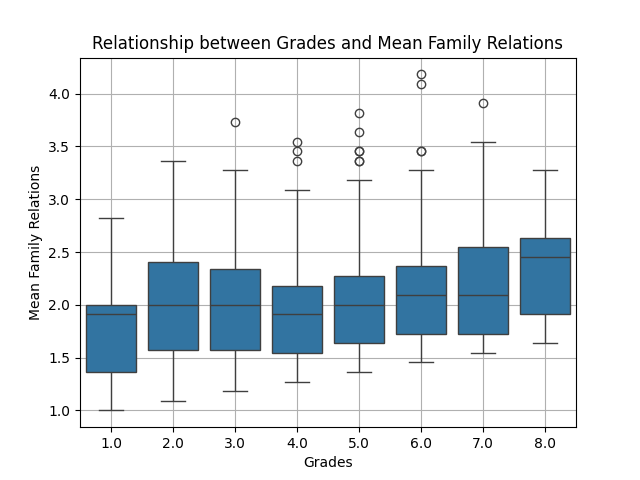
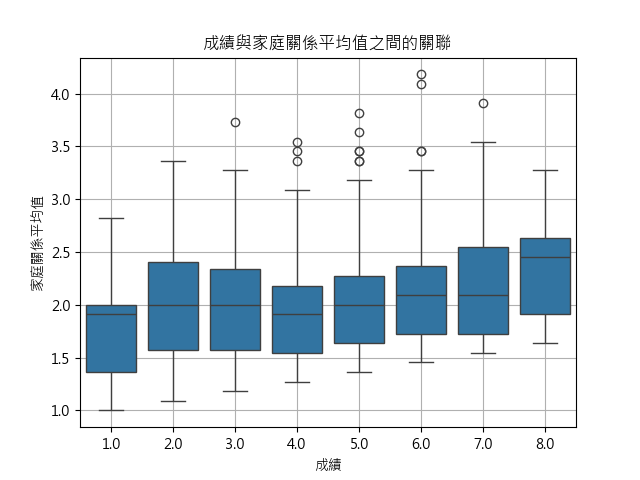
Add files via upload

diff --git a/報告/分析成績與家庭關係好壞；網路時數老師看法.py b/報告/分析成績與家庭關係好壞；網路時數老師看法.py
@@ -3,11 +3,12 @@ import matplotlib.pyplot as plt
 import seaborn as sns
 import numpy as np
 
+# 設置Matplotlib顯示中文字體
+plt.rcParams['font.sans-serif'] = ['Microsoft JhengHei']  # 使用微軟正黑體
+plt.rcParams['axes.unicode_minus'] = False  # 解決負號顯示問題
+
 # 檔案路徑
-file_path = 'D:\q\data1.csv'
-
-data = pd.read_csv(file_path, skipinitialspace=True)
-
+file_path = 'D:\\q\\data1.csv'
 
 data = pd.read_csv(file_path, skipinitialspace=True)
 
@@ -20,13 +21,13 @@ mean_family_relations = grades_and_family.mean(axis=1)
 
 # 將成績和家庭關係的平均值合併成一個 DataFrame
 combined_data = pd.concat([data['achieve'], mean_family_relations], axis=1)
-combined_data.columns = ['Grades', 'Mean Family Relations']
+combined_data.columns = ['成績', '家庭關係平均值']
 
 # 繪製盒狀圖
-sns.boxplot(x='Grades', y='Mean Family Relations', data=combined_data)
-plt.title('Relationship between Grades and Mean Family Relations')
-plt.xlabel('Grades')
-plt.ylabel('Mean Family Relations')
+sns.boxplot(x='成績', y='家庭關係平均值', data=combined_data)
+plt.title('成績與家庭關係平均值之間的關聯')
+plt.xlabel('成績')
+plt.ylabel('家庭關係平均值')
 plt.grid(True)
 plt.show()
 
@@ -39,15 +40,19 @@ mean_teacher_opinion = internet_hours_and_teacher_opinion.drop('nethour', axis=1
 
 # 繪製散點圖
 plt.scatter(data['nethour'], mean_teacher_opinion, marker='o')
-plt.title('Relationship between Internet Hours and Mean Teacher Opinion')
-plt.xlabel('Internet Hours')
-plt.ylabel('Mean Teacher Opinion')
+plt.title('網路使用時數與對老師的看法之間的關聯')
+plt.xlabel('網路使用時數')
+plt.ylabel('對老師的看法平均值')
 # 添加回歸線
 sns.regplot(x=data['nethour'], y=mean_teacher_opinion, scatter=False)
 
+# 手動設置x軸和y軸標籤
+plt.xlabel('網路使用時數')
+plt.ylabel('對老師的看法平均值')
+
 # 計算相關係數
 correlation_coefficient = np.corrcoef(data['nethour'], mean_teacher_opinion)[0, 1]
-print("Correlation Coefficient:", correlation_coefficient)
+print("相關係數:", correlation_coefficient)
 
 plt.grid(True)
 plt.show()
